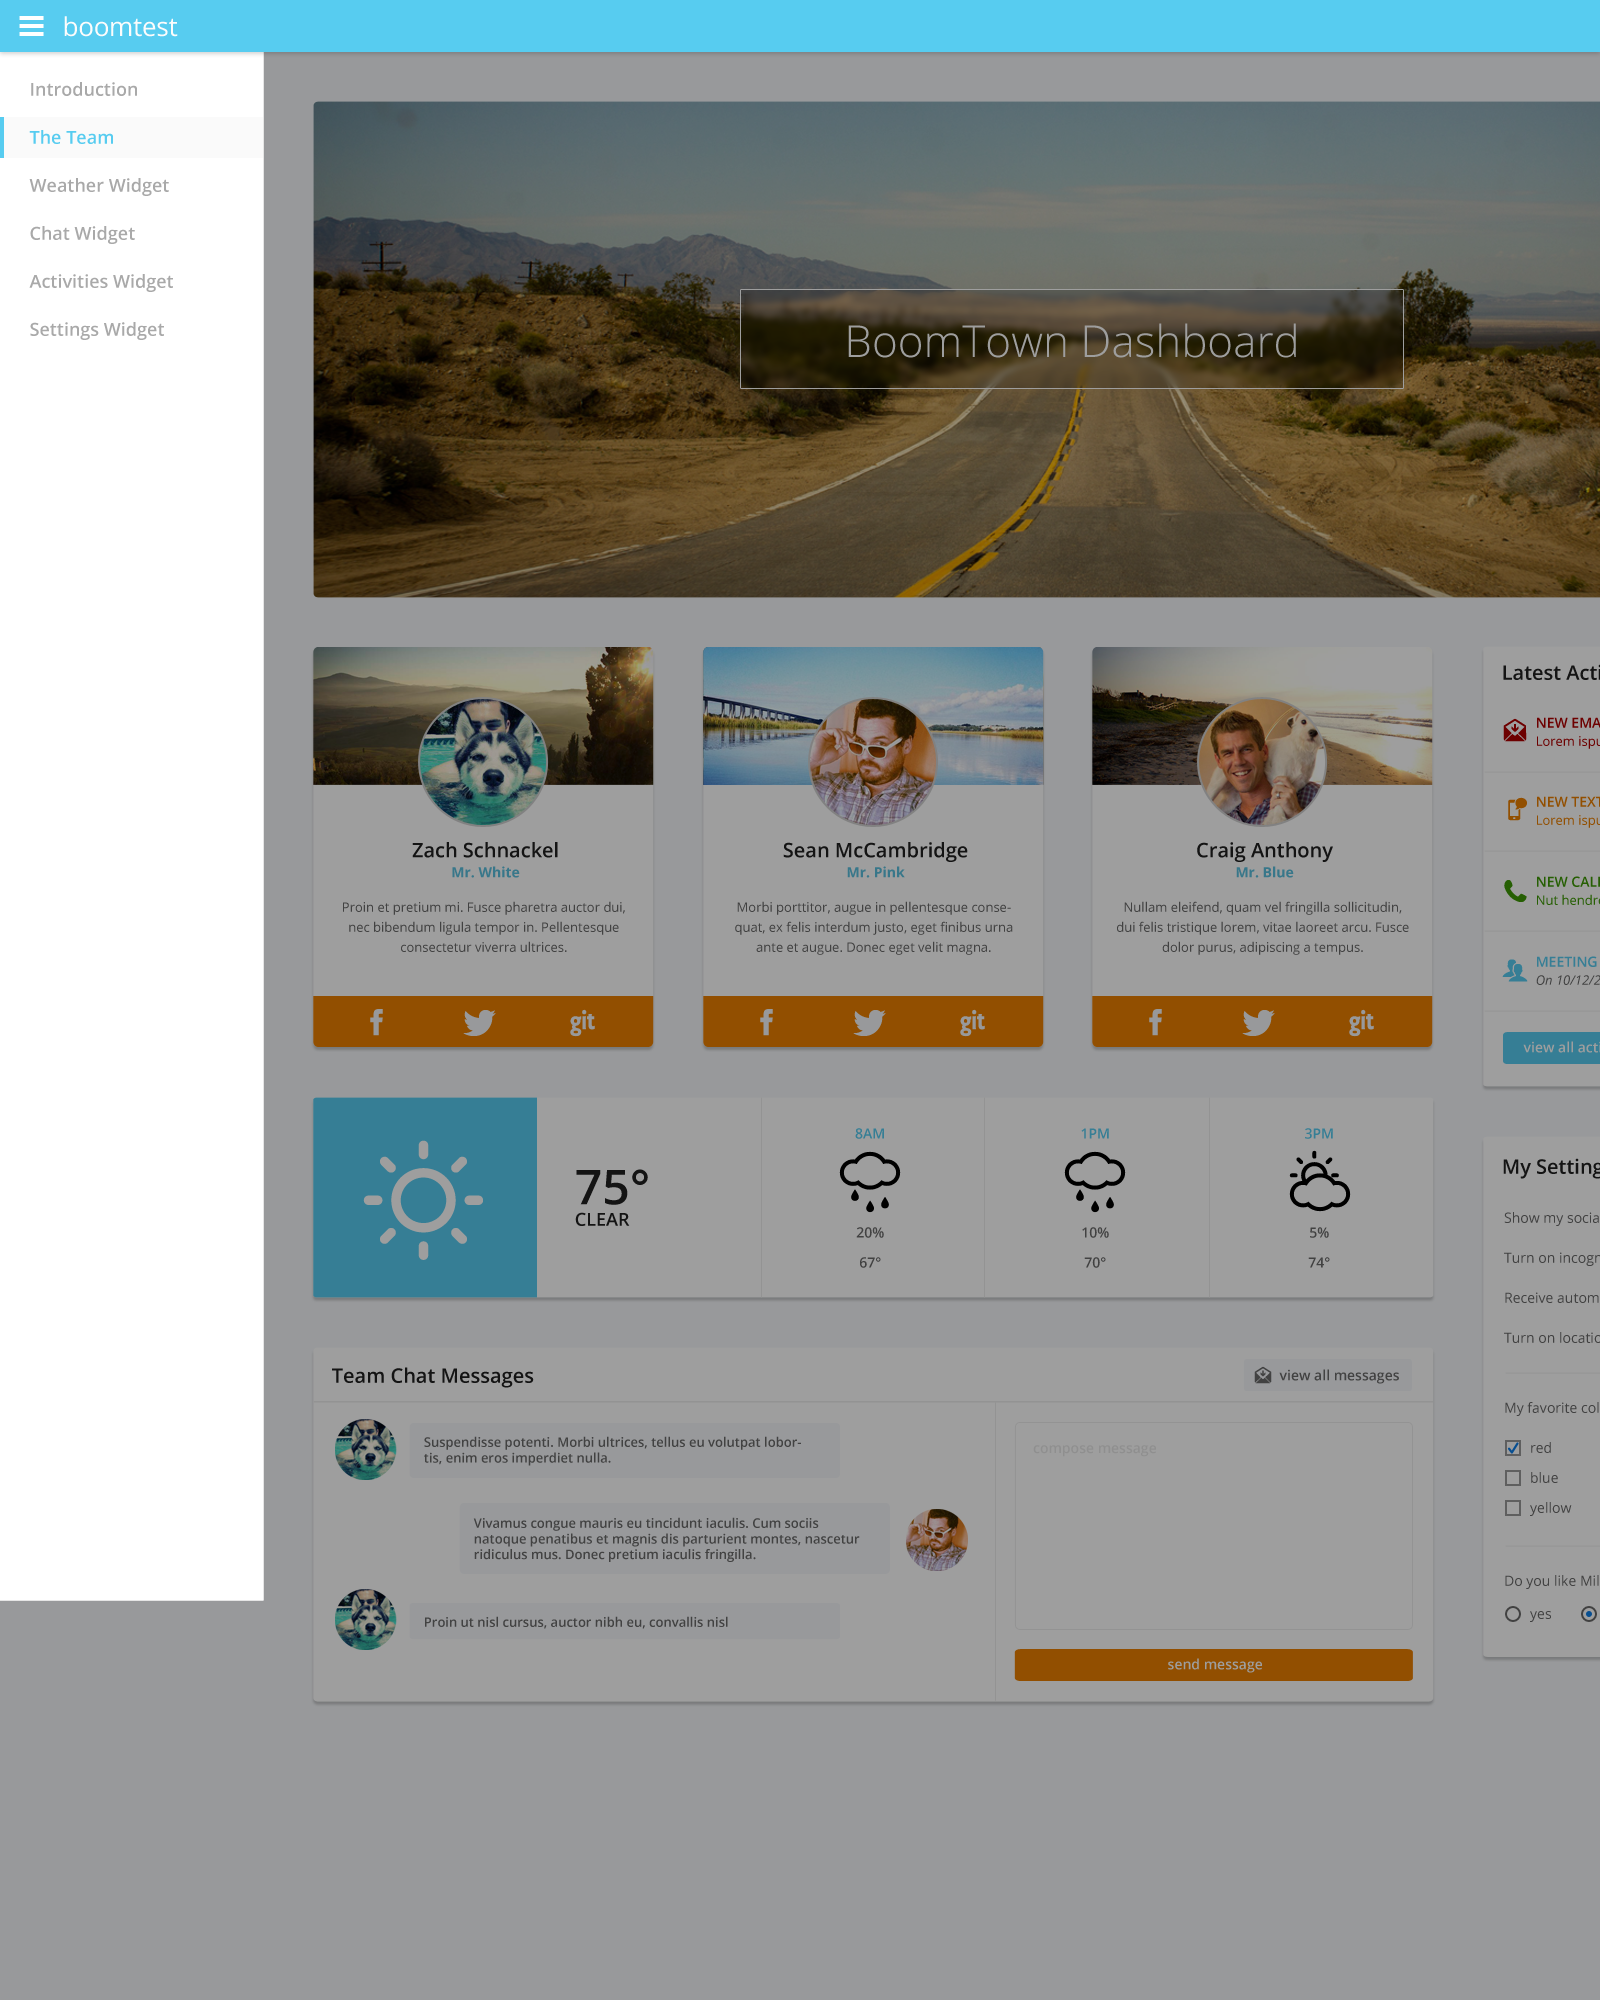
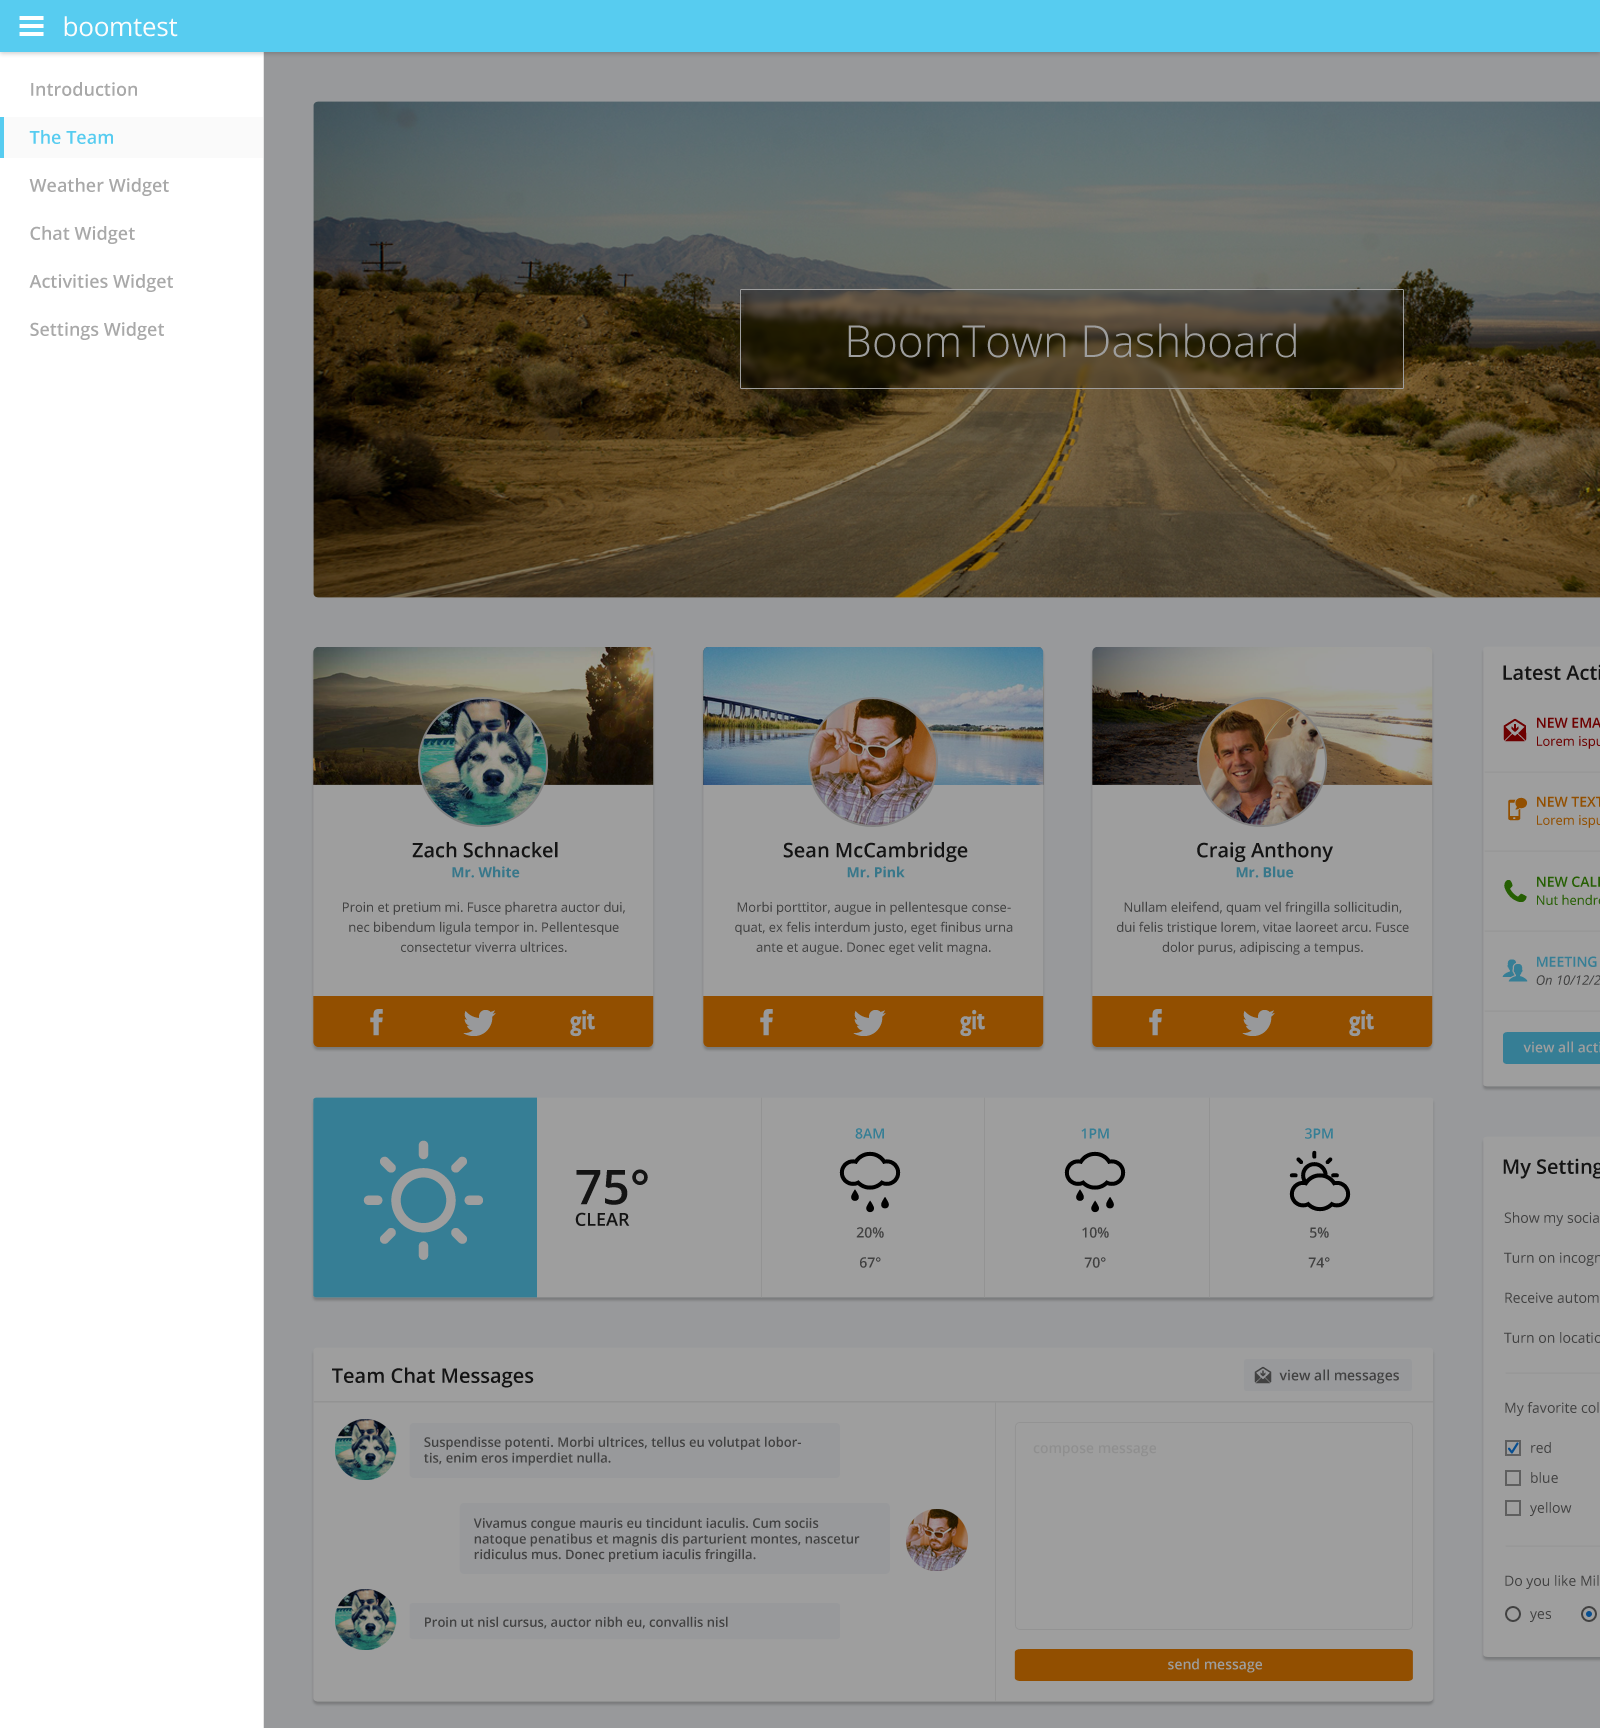
Craig - images

diff --git a/README.md b/README.md
@@ -4,5 +4,5 @@ BoomTown Front-End Developer Test
 Developer test for front-end candidates.
 
 
-![alt tag](assets/project.png)
-![alt tag](assets/project-navigation.png)
+![alt tag](assets/project-low-res.jpg)
+![alt tag](assets/project-navigation-low-res.jpg)
